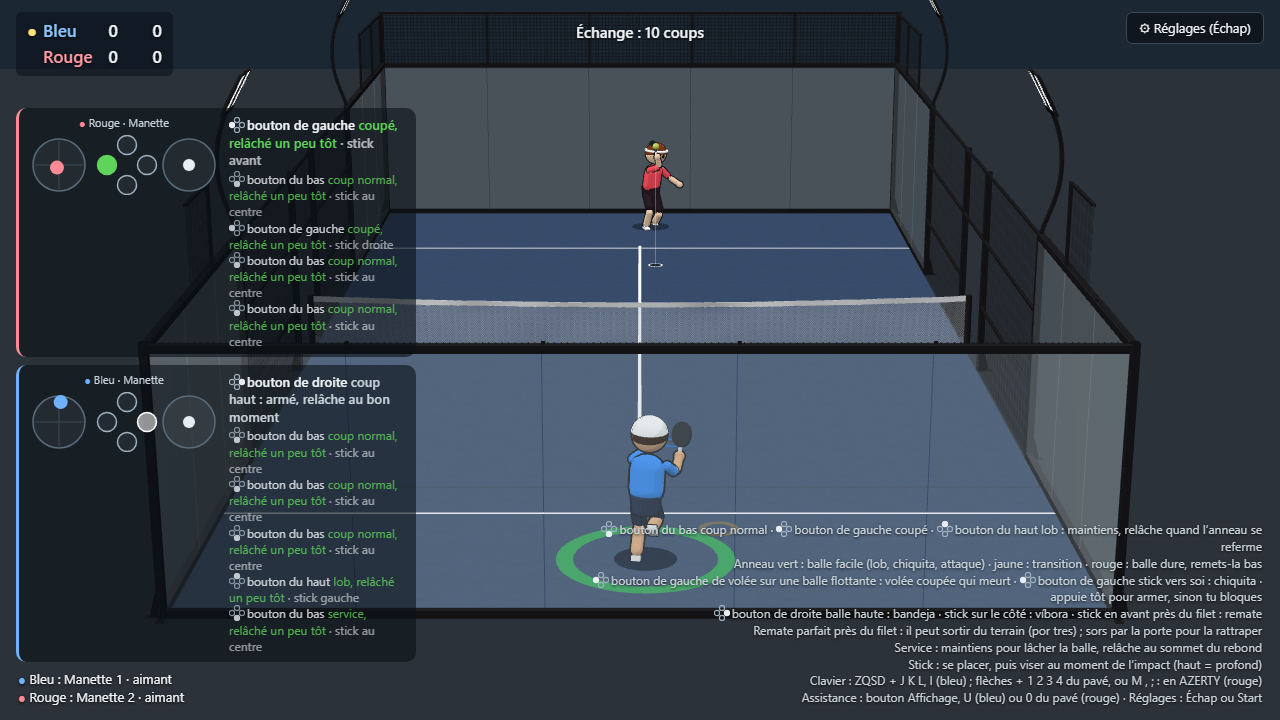
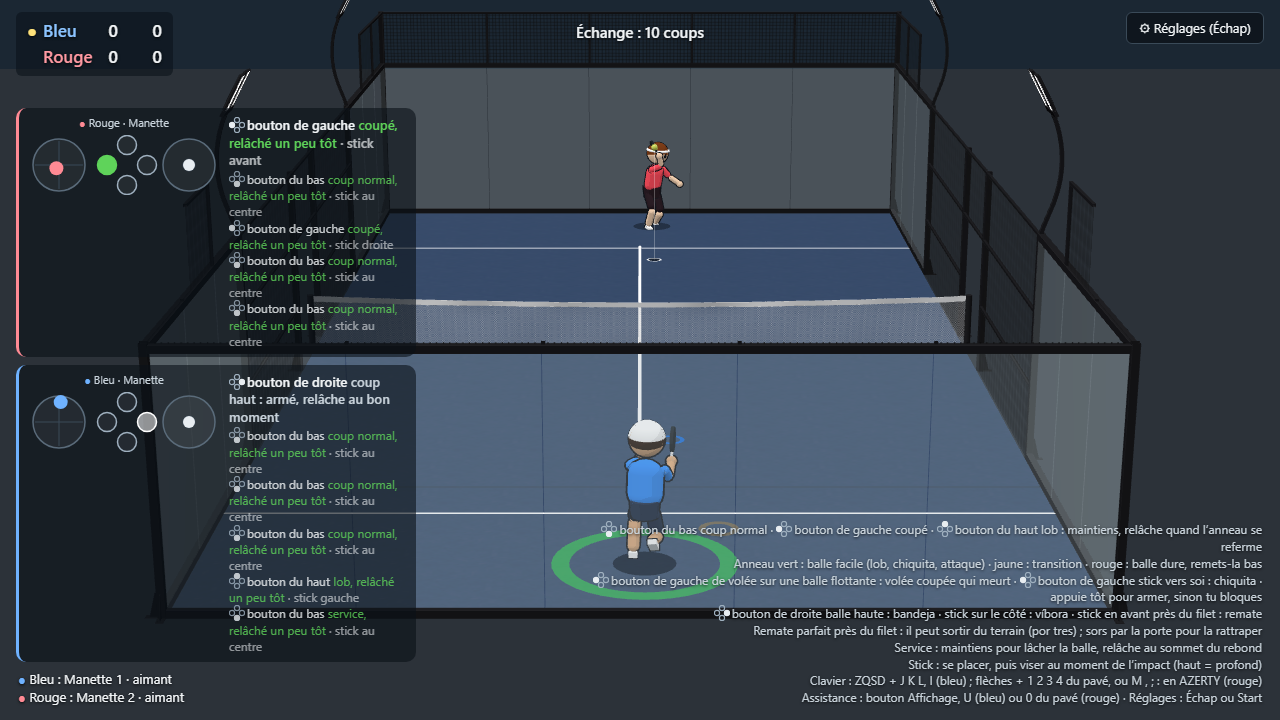
Prise marteau sur tous les gestes : tamis calculé depuis l'avant-bras
Le tamis est perpendiculaire au plan de l'avant-bras et du manche ; en attente,
la tranche fait face au joueur (retour de Xavier).

Changed region(s): [[0.4062, 0.5806, 0.5625, 0.8556], [0.5, 0.1833, 0.5312, 0.3667]]

diff --git a/src/render/pose.ts b/src/render/pose.ts
@@ -79,9 +79,10 @@ function key(k: Omit<Key, Optional> & Partial<Pick<Key, Optional>>): Key {
 
 /**
  * En attente dans l'échange, d'après les images de Xavier : pieds larges, jambes fléchies, raquette devant soi à
- * hauteur de poitrine, tête en haut, la main gauche sur l'extérieur du cadre pour aider à la porter.
+ * hauteur de poitrine, tête en haut, la main gauche sur l'extérieur du cadre pour aider à la porter. Prise marteau :
+ * la tranche de la raquette fait face au joueur, le tamis regarde sur le côté.
  */
-const READY = key({ twist: 0, lean: 0.12, crouch: 0.15, armR: [0.05, -0.6, 0.8], armL: [-0.3, -0.1, 0.95], elbowR: 1.35, racket: [0.05, 0.95, 0.3], stance: 0.5 });
+const READY = key({ twist: 0, lean: 0.12, crouch: 0.15, armR: [0.05, -0.6, 0.8], armL: [-0.3, -0.1, 0.95], elbowR: 1.35, racket: [0.05, 0.95, 0.3], face: [-1, 0, 0], stance: 0.5 });
 /** Hors de l'échange (pause entre les points, service adverse pas encore lâché). */
 const REST = key({ twist: 0, lean: 0.03, crouch: 0, armR: [-0.2, -0.95, 0.15], armL: [0.2, -0.97, 0.05], elbowR: 0.2, racket: [-0.1, -0.5, 0.85], face: [-1, 0, 0] });
 
@@ -326,4 +327,21 @@ export function plansHighShot(duel: Duel, player: DuelPlayer, engagement: Engage
   // `swingFloor` infini : seuil `lob`, pas de coup haut sur cette balle, aux boutons non plus.
   if (!engagement.swing) return engagement.kind === 'overhead' && floor !== Infinity && plan.contact.y >= duel.profile.rally.overheadLow;
   return plan.contact.y >= (plan.volley ? floor : Math.max(floor, bandejaHeight(duel.profile, player.height) - 0.02));
+}
+
+/**
+ * Orientation du tamis en prise marteau (toujours, comme au padel) : le poignet plie la raquette dans le plan de
+ * l'avant-bras et du manche, la tranche en avant ; le tamis est donc perpendiculaire à ce plan. `hint` (la face
+ * voulue par l'image clé) ne choisit que de quel côté il regarde. Avant-bras dans l'axe du manche : `hint`.
+ */
+export function hammerFace(forearm: V3, racket: V3, hint: V3): V3 {
+  const n: V3 = [
+    forearm[1] * racket[2] - forearm[2] * racket[1],
+    forearm[2] * racket[0] - forearm[0] * racket[2],
+    forearm[0] * racket[1] - forearm[1] * racket[0],
+  ];
+  const size = Math.hypot(n[0], n[1], n[2]);
+  if (size < 0.2) return normalize(hint);
+  const sign = n[0] * hint[0] + n[1] * hint[1] + n[2] * hint[2] < 0 ? -1 : 1;
+  return [(sign * n[0]) / size, (sign * n[1]) / size, (sign * n[2]) / size];
 }

diff --git a/tests/render/pose.test.ts b/tests/render/pose.test.ts
@@ -1,5 +1,5 @@
 import { describe, expect, it } from 'vitest';
-import { bodyYawTarget, computePose, FOLLOW_TIME, lowFamily, overheadFamily, plansHighShot, prepAmount, RECOVER_TIME, swingSide, type PoseInput, type V3 } from '../../src/render/pose';
+import { bodyYawTarget, computePose, FOLLOW_TIME, hammerFace, lowFamily, overheadFamily, plansHighShot, prepAmount, RECOVER_TIME, swingSide, type PoseInput, type V3 } from '../../src/render/pose';
 import { NEUTRAL_ARCADE } from '../../src/sim/commands';
 import { Duel, type HighFloor } from '../../src/sim/duel';
 import { vec3 } from '../../src/sim/vec3';
@@ -249,7 +249,20 @@ describe('attente dans l’échange (images de Xavier)', () => {
     expect(ready.crouch).toBeGreaterThan(0.1);
     expect(ready.racket[1]).toBeGreaterThan(0.9);
     expect(ready.armL[2]).toBeGreaterThan(0.8);
+    // Prise marteau : le tamis regarde sur le côté, la tranche face au joueur.
+    expect(Math.abs(ready.face[0])).toBeGreaterThan(0.9);
     // Au repos, entre les points : pieds sous le corps.
     expect(computePose({ ...still, inPlay: false }).legR.spread).toBeCloseTo(0, 9);
+  });
+});
+
+describe('prise marteau', () => {
+  it('le tamis est perpendiculaire au plan de l’avant-bras et du manche, du côté voulu', () => {
+    // Avant-bras vers l'avant, raquette vers le haut (attente) : le tamis regarde sur le côté, pas vers le joueur.
+    const face = hammerFace([0, 0, 1], [0, 1, 0], [-1, 0, 0.2]);
+    expect(face[0]).toBeCloseTo(-1, 6);
+    expect(hammerFace([0, 0, 1], [0, 1, 0], [1, 0, 0])[0]).toBeCloseTo(1, 6);
+    // Avant-bras dans l'axe du manche : on garde la face voulue.
+    expect(hammerFace([0, 1, 0], [0, 1, 0], [0, 0, 1])).toEqual([0, 0, 1]);
   });
 });

diff --git a/src/render/character.ts b/src/render/character.ts
@@ -1,6 +1,6 @@
 import * as THREE from 'three';
 import { PLAYER_HEIGHT } from '../sim/constants';
-import type { Pose, V3 } from './pose';
+import { hammerFace, type Pose, type V3 } from './pose';
 
 /**
  * Personnages cartoon (GAME_DESIGN.md §9, étape E) : grosse tête façon Wii Sports, maillot à la couleur
@@ -255,9 +255,13 @@ export function createCharacter(look: CharacterLook, jersey: number, height = PL
       pointLimb(armL.root, pose.armL);
       armL.joint.rotation.x = -0.4;
 
-      // Raquette : manche le long de `racket`, tamis tourné vers `face`, dans le repère du buste.
+      // Raquette : manche le long de `racket`, dans le repère du buste ; tamis en prise marteau (`hammerFace`),
+      // perpendiculaire au plan de l'avant-bras et du manche, du côté de `face`.
       ay.set(pose.racket[0], pose.racket[1], pose.racket[2]).normalize();
-      az.set(pose.face[0], pose.face[1], pose.face[2]);
+      tmpQ.copy(armR.root.quaternion).multiply(armR.joint.quaternion);
+      tmpDir.copy(DOWN).applyQuaternion(tmpQ);
+      const face = hammerFace([tmpDir.x, tmpDir.y, tmpDir.z], [ay.x, ay.y, ay.z], pose.face);
+      az.set(face[0], face[1], face[2]);
       az.addScaledVector(ay, -az.dot(ay));
       if (az.lengthSq() < 1e-6) az.set(0, 0, 1).addScaledVector(ay, -ay.z);
       az.normalize();

diff --git a/STATUS.md b/STATUS.md
@@ -567,3 +567,14 @@ duel OK, `src/sim` inchangé. **À rejouer à la manette.**
   points, pieds sous le corps.
 - Pas encore parfait : la main gauche arrive à côté du cadre, pas dessus (il faudrait une cinématique inverse du bras).
 - Planche (face, trois quarts, côté) : `screenshots/47-attente.png`.
+
+### Prise marteau sur tous les gestes (17/10/2026)
+
+Retour de Xavier : au padel, la raquette est toujours tenue en prise marteau ; en attente, c'est la tranche qui fait
+face au joueur, pas le tamis. 456 tests OK, typecheck OK, tests navigateur du visionneur et du duel OK.
+
+- Le tamis n'est plus donné image clé par image clé : il est calculé (`hammerFace`, `src/render/pose.ts`),
+  perpendiculaire au plan de l'avant-bras et du manche (le poignet plie la raquette dans ce plan, tranche en avant).
+  La face de l'image clé ne choisit plus que de quel côté il regarde.
+- Attente : tamis sur le côté, tranche face au joueur.
+- Planche de tous les gestes (préparation, impact, fin du geste) : `screenshots/48-prise-marteau.png`.
